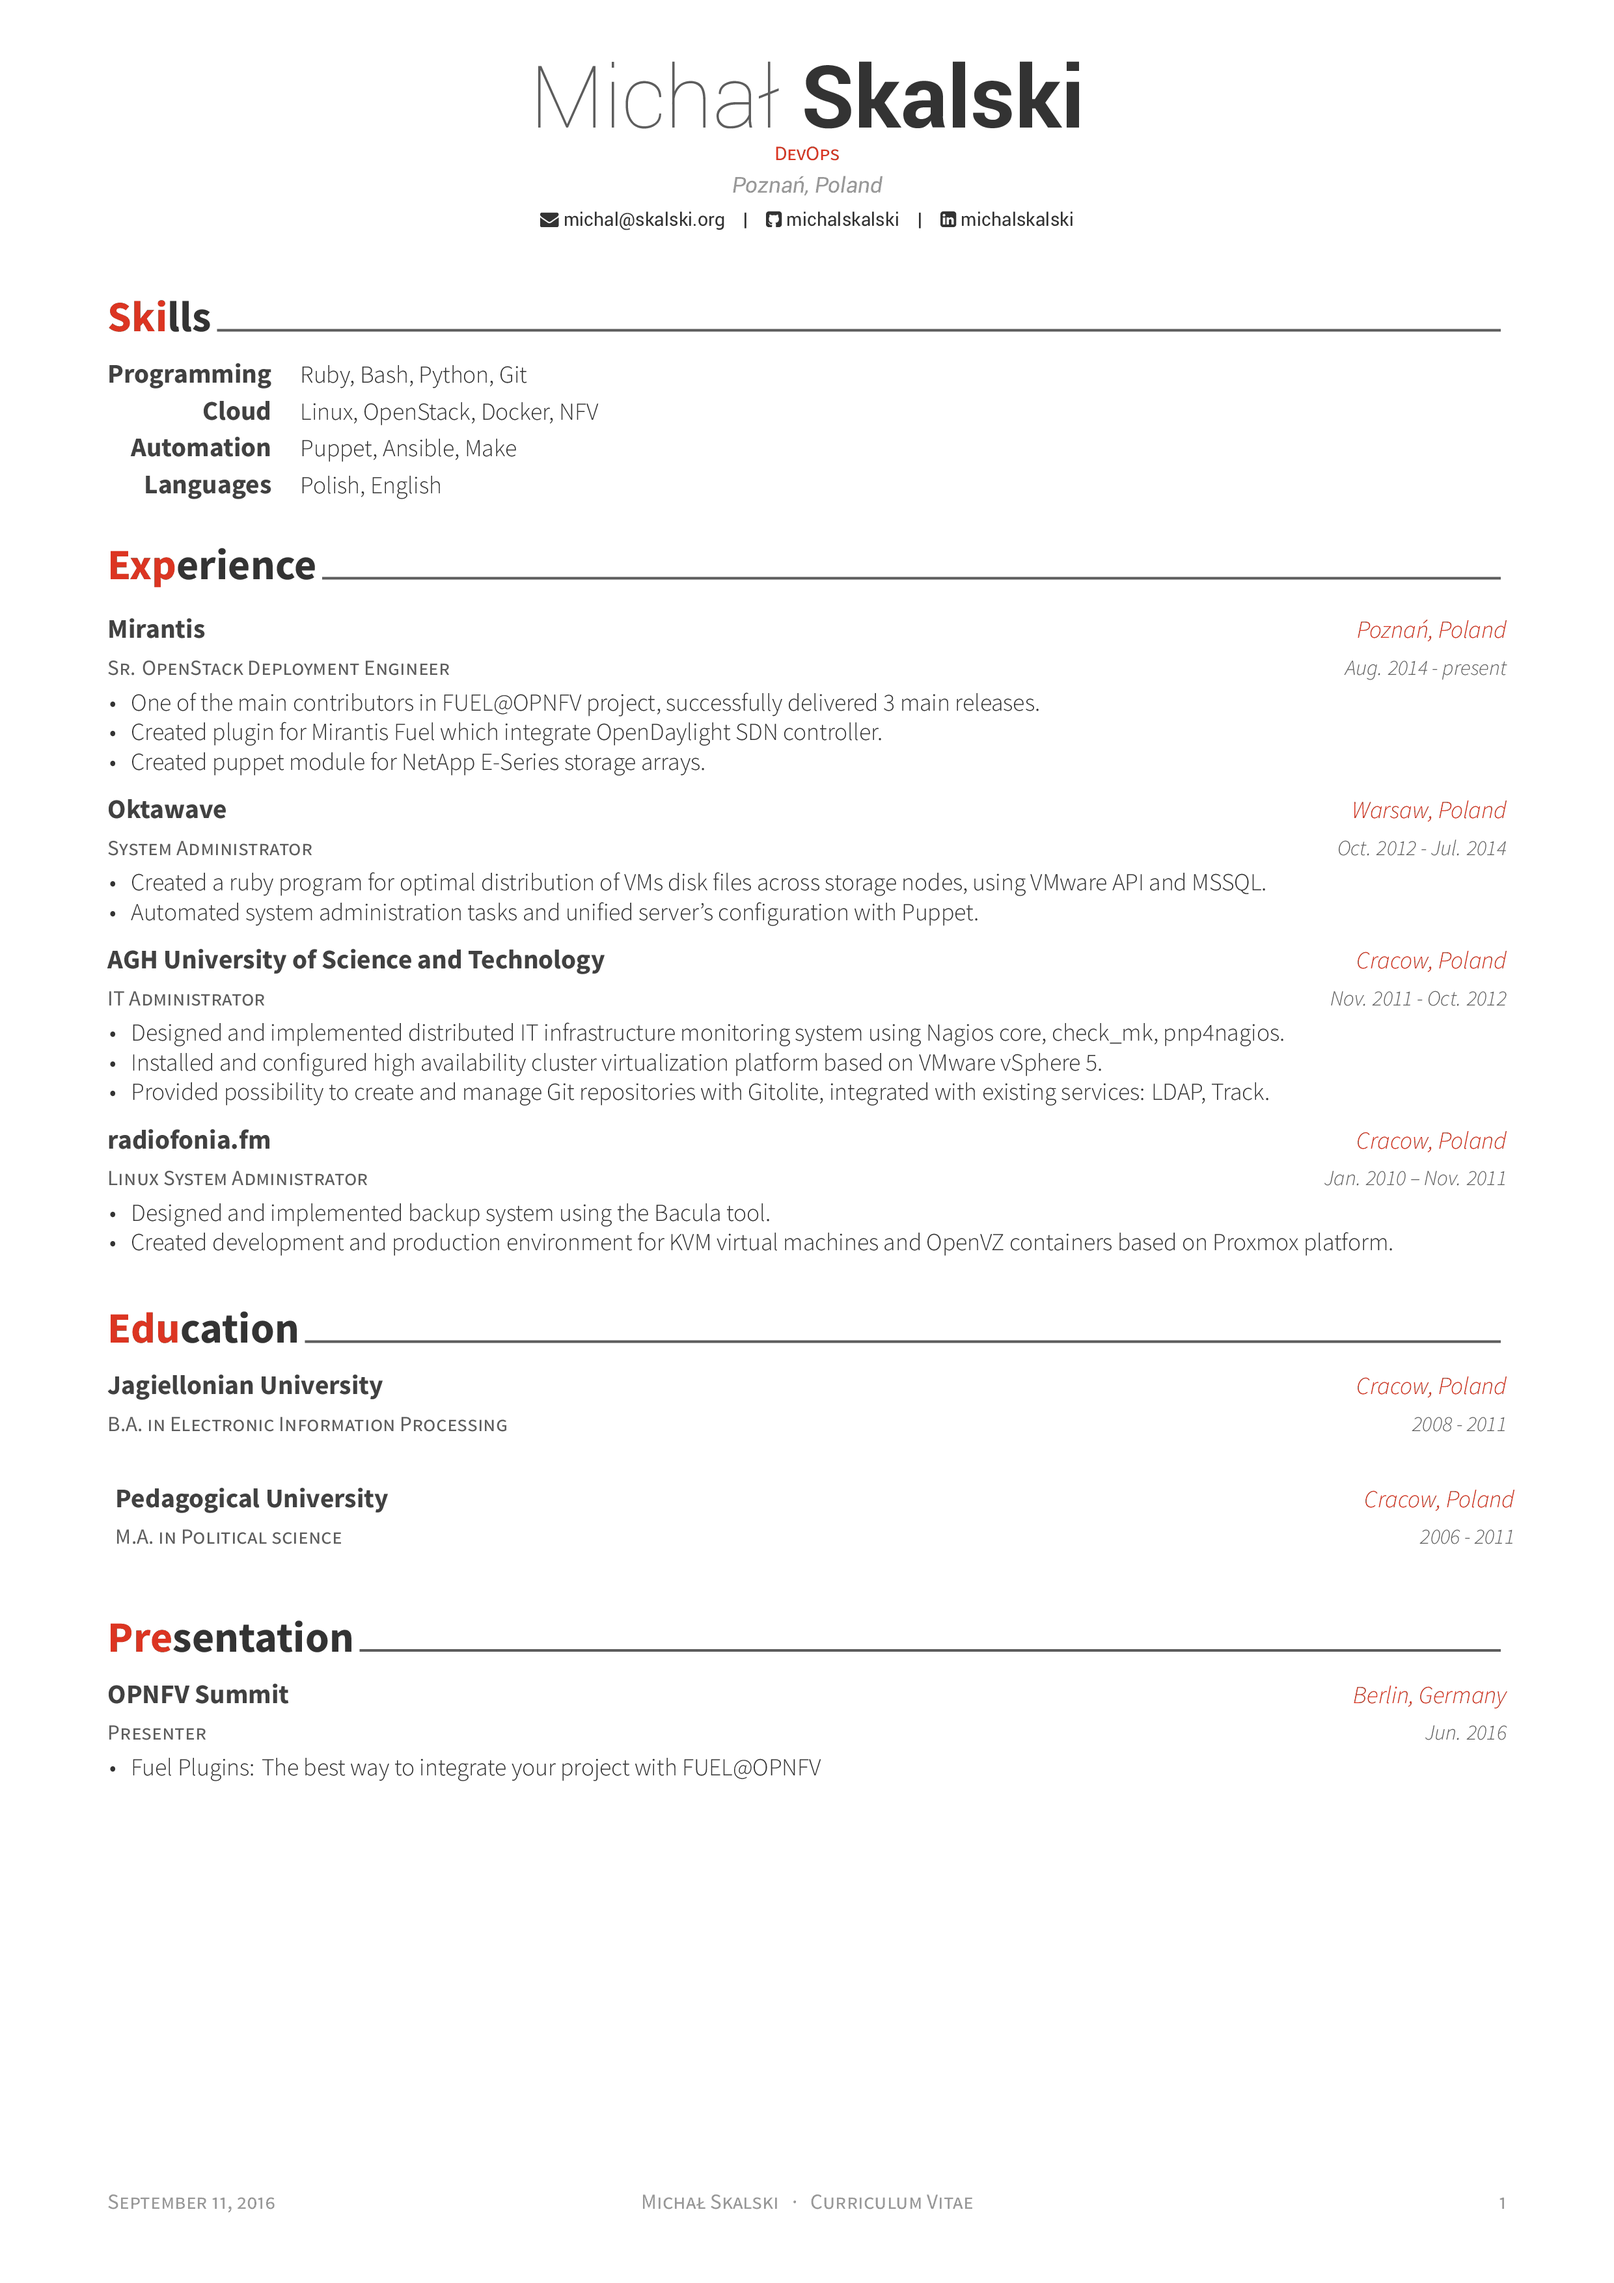
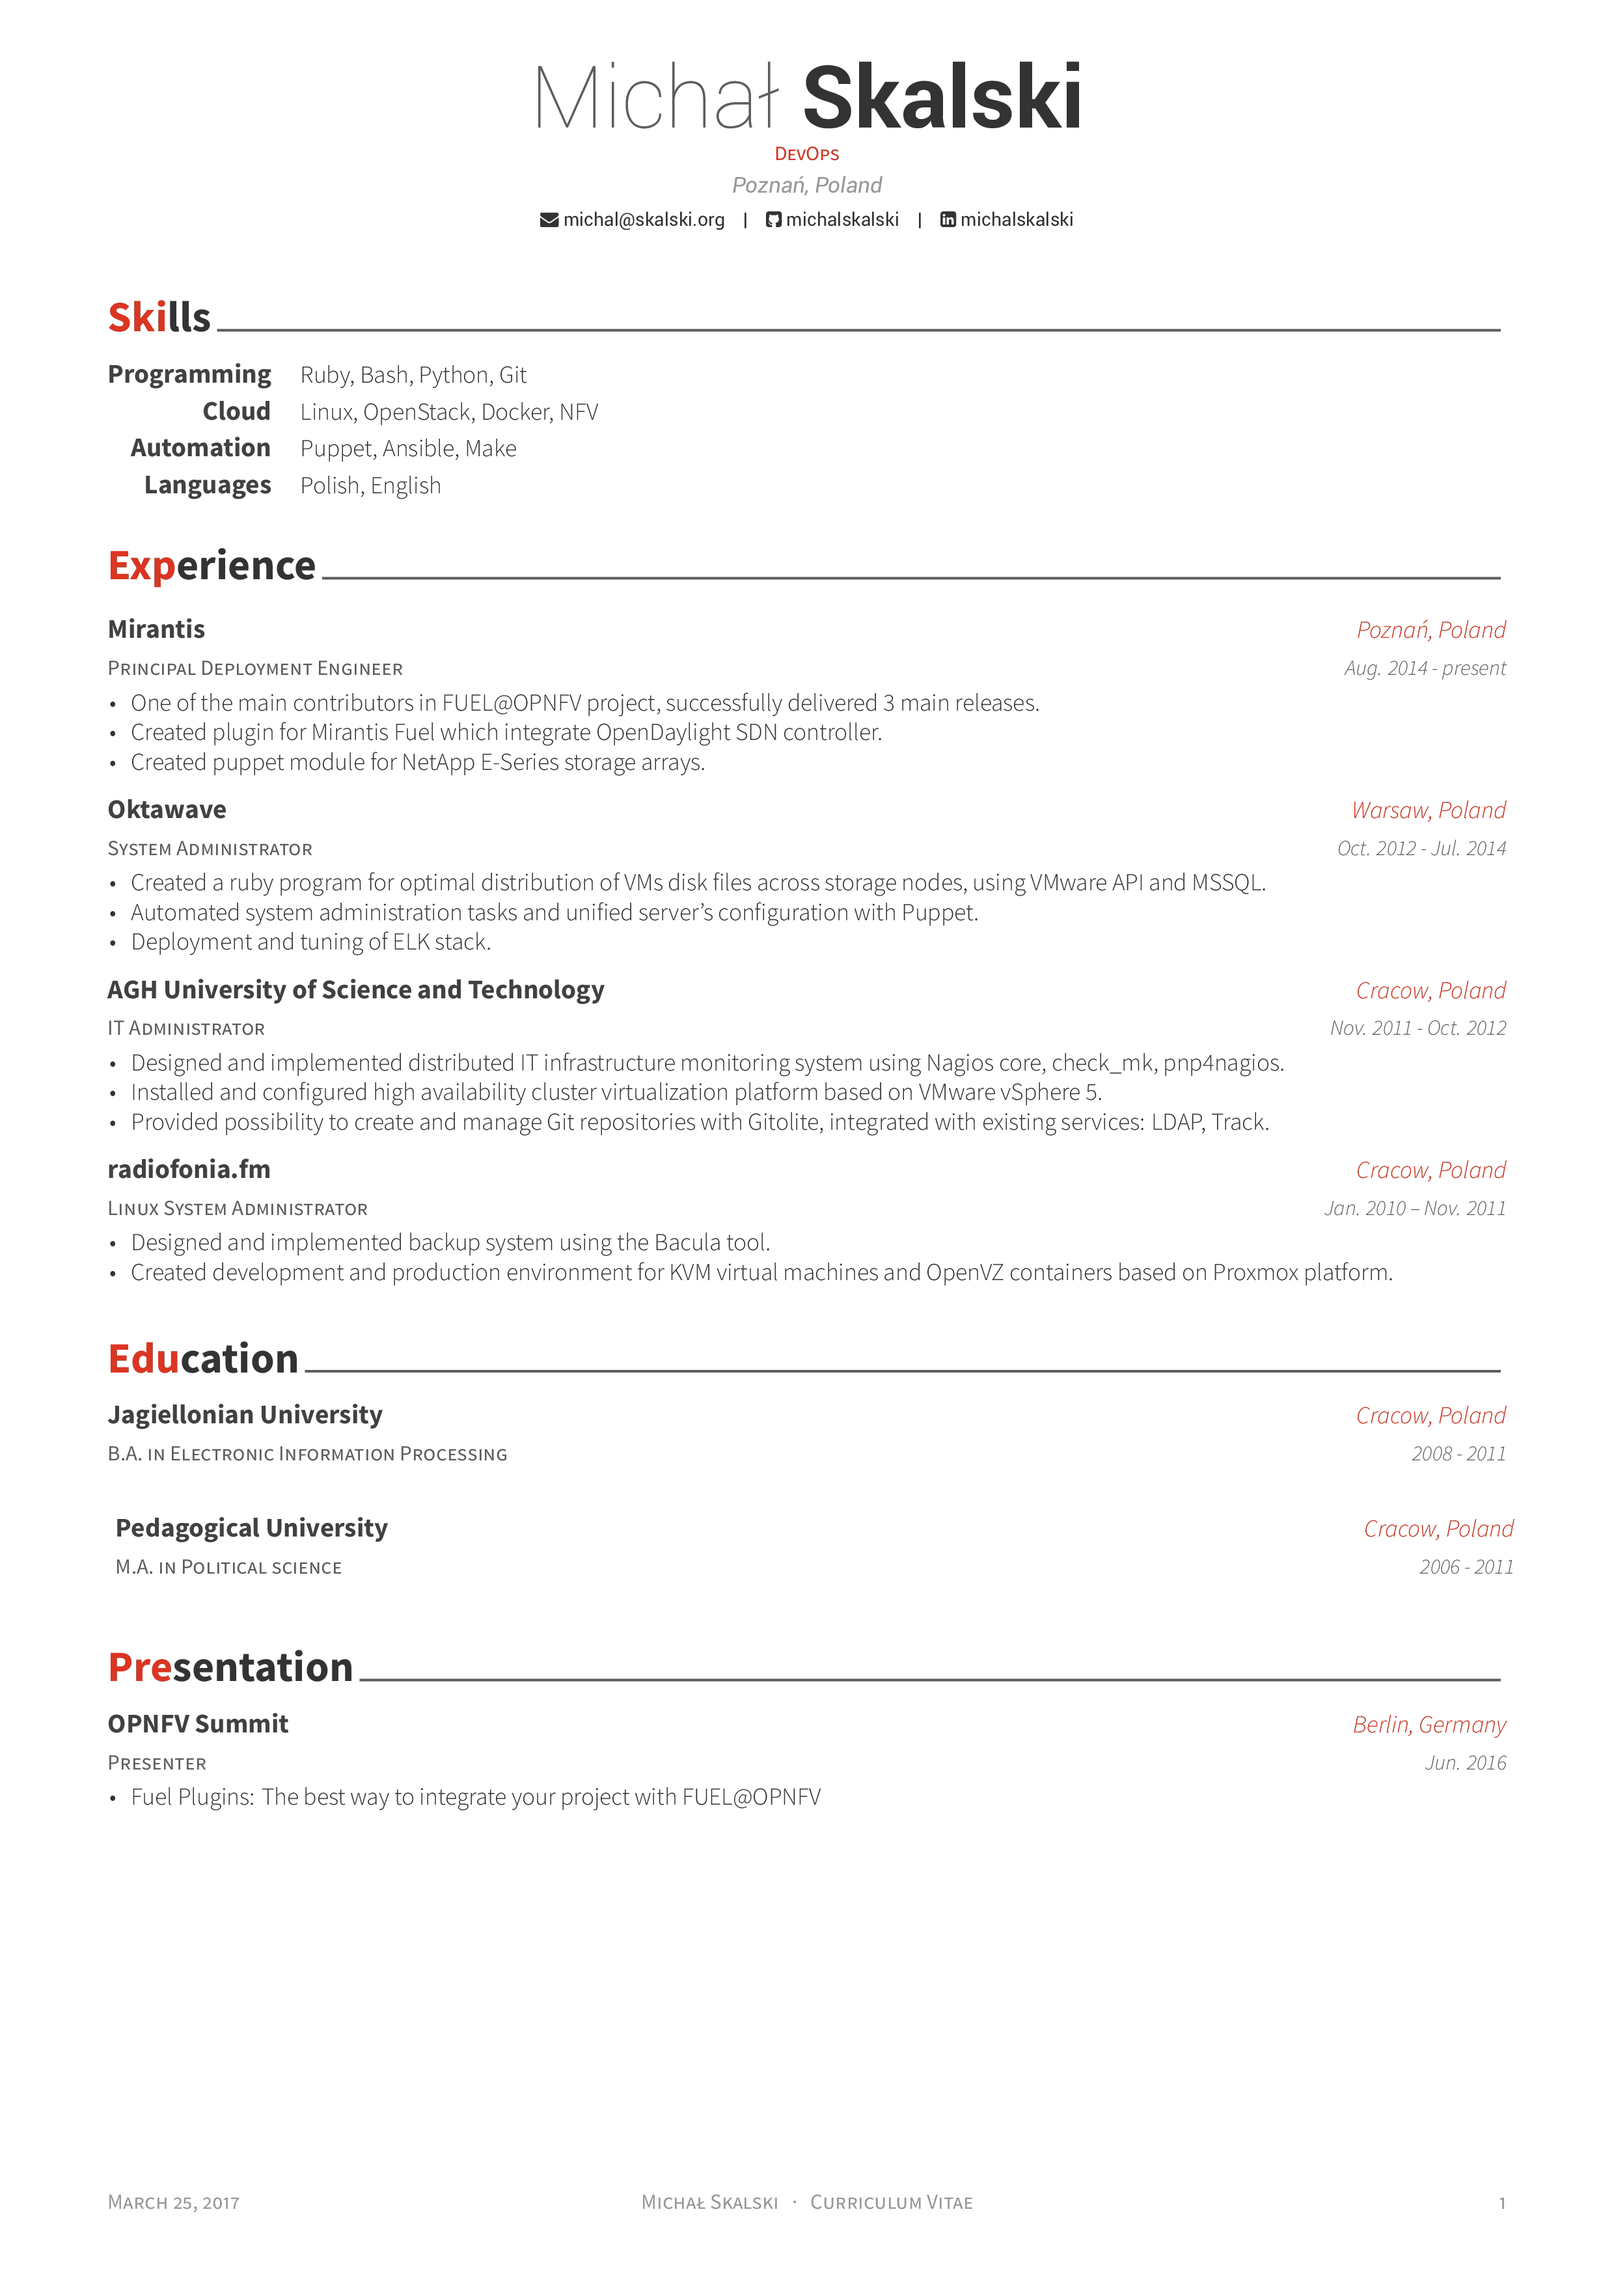
Update with new position

diff --git a/examples/cv/experience.tex b/examples/cv/experience.tex
@@ -11,7 +11,7 @@
 
 %---------------------------------------------------------
   \cventry
-    {Sr. OpenStack Deployment Engineer} % Job title
+    {Principal Deployment Engineer} % Job title
     {Mirantis} % Organization
     {Poznań, Poland} % Location
     {Aug. 2014 - present} % Date(s)
@@ -33,6 +33,7 @@
       \begin{cvitems} % Description(s) of tasks/responsibilities
         \item {Created a ruby program for optimal distribution of VMs disk files across storage nodes, using VMware API and MSSQL.}
         \item {Automated system administration tasks and unified server's configuration with Puppet.}
+        \item {Deployment and tuning of ELK stack.}
       \end{cvitems}
     }
 
